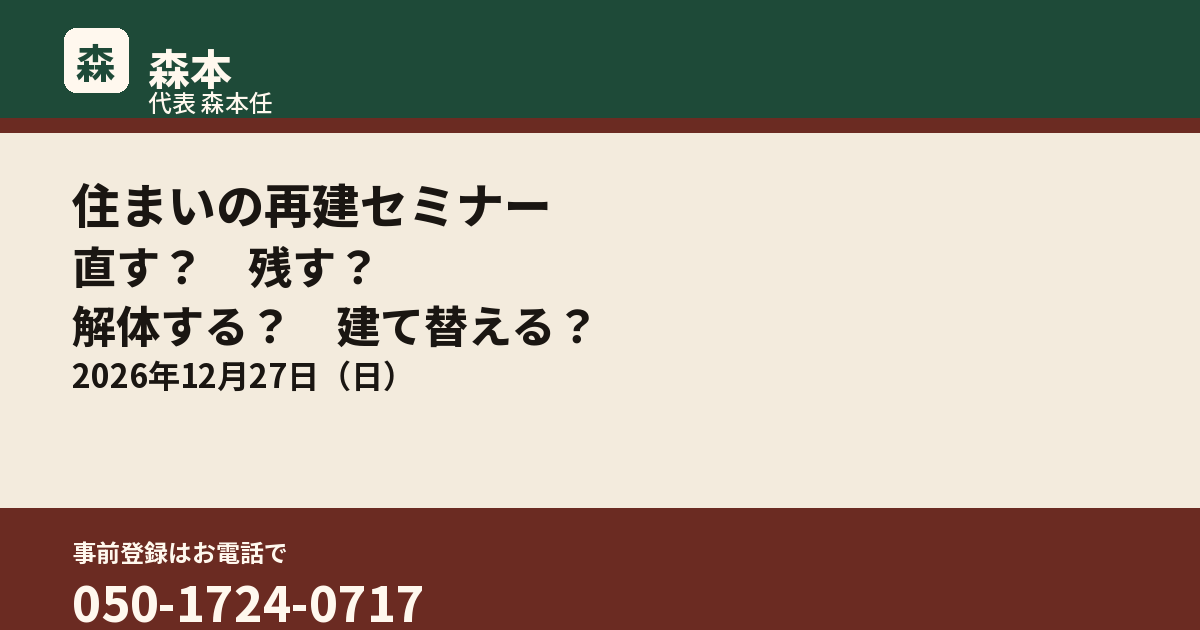
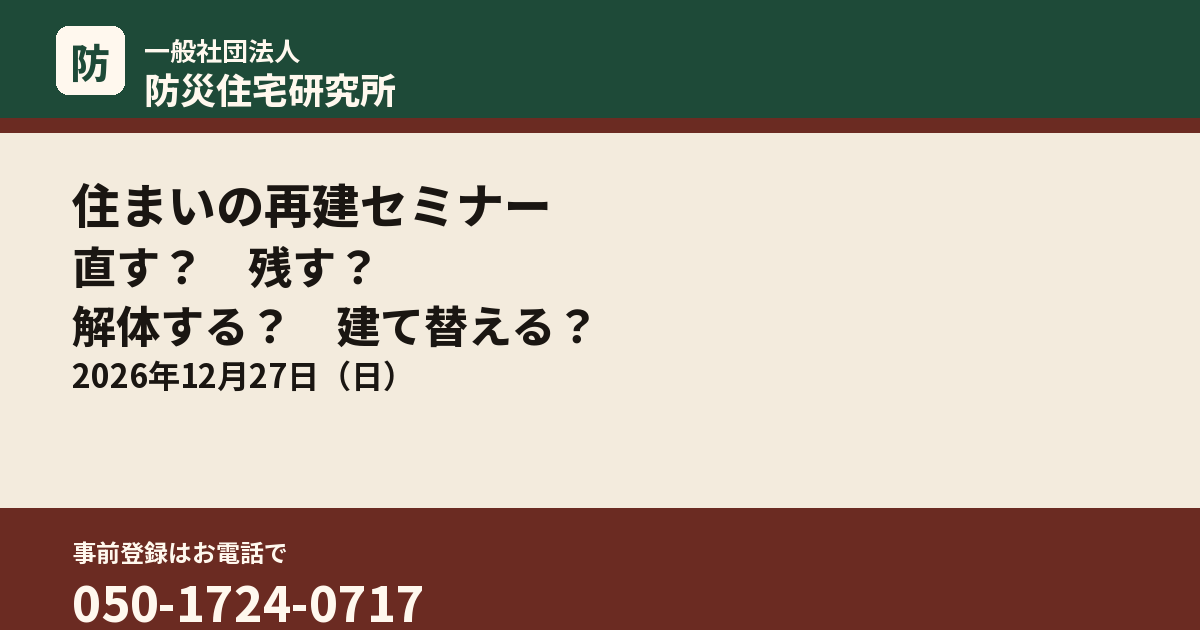
Brand the seminar page as 一般社団法人防災住宅研究所
The seminar header, footer, title, and OGP site name now name the institute as organizer. 森本任 stays on the speaker list. The Uto and storage pages are unchanged.

Changed region(s): [[0.0308, 0.0302, 0.3392, 0.181]]

diff --git a/lp/seminar/index.html b/lp/seminar/index.html
@@ -9,11 +9,11 @@
   <meta name="description" content="2026年12月27日（日）、八代・宇城・宇土エリアで住まいの再建を考えるセミナーです。事前登録はお電話（050-1724-0717）。詳細は調整中です。">
   <meta name="geo.region" content="JP-43">
   <meta name="geo.placename" content="熊本県">
-  <title>地震から考える住まいの再建セミナー｜森本</title>
+  <title>地震から考える住まいの再建セミナー｜一般社団法人防災住宅研究所</title>
   <link rel="canonical" href="https://morimoto811-alt.github.io/-/seminar/">
   <meta property="og:locale" content="ja_JP">
   <meta property="og:type" content="website">
-  <meta property="og:site_name" content="森本">
+  <meta property="og:site_name" content="一般社団法人防災住宅研究所">
   <meta property="og:title" content="地震から考える住まいの再建セミナー">
   <meta property="og:description" content="2026年12月27日（日）、八代・宇城・宇土エリアで住まいの再建を考えるセミナーです。事前登録はお電話（050-1724-0717）。詳細は調整中です。">
   <meta property="og:url" content="https://morimoto811-alt.github.io/-/seminar/">
@@ -27,17 +27,16 @@
   <meta name="twitter:image" content="https://morimoto811-alt.github.io/-/assets/og-seminar.png">
   <link rel="icon" href="../assets/favicon.svg" type="image/svg+xml">
   <link rel="apple-touch-icon" href="../assets/apple-touch.png">
-  <link rel="stylesheet" href="../assets/style.css?v=1">
+  <link rel="stylesheet" href="../assets/style.css?v=2">
 </head>
 <body>
   <a class="skip" href="#main">本文へ</a>
   <header class="site-header">
     <div class="wrap header-inner">
-      <a class="brand" href="../">
-        <span class="brand-mark" aria-hidden="true">森</span>
+      <a class="brand brand-institute" href="./">
+        <span class="brand-mark" aria-hidden="true">防</span>
         <span class="brand-text">
-          <span class="brand-name">森本</span>
-          <span class="brand-sub">代表 森本任</span>
+          <span class="brand-name">一般社団法人<br>防災住宅研究所</span>
         </span>
       </a>
       <nav aria-label="ページ">
@@ -62,7 +61,7 @@
           <span>建て替える<span class="q">？</span></span>
         </h1>
         <p class="lead">家族を守る住まいと、無理のない再建費用を考える</p>
-        <p>令和8年熊本地震のあと、住まいをどうするかを考えるセミナーです。森本（代表 森本任）が開きます。</p>
+        <p>令和8年熊本地震のあと、住まいをどうするかを考えるセミナーです。主催は、<span class="keep">一般社団法人防災住宅研究所</span>です。</p>
       </div>
 
       <section aria-labelledby="when-title">
@@ -160,8 +159,8 @@
 
   <footer class="site-footer">
     <div class="wrap">
-      <p class="footer-name">森本（代表 森本任）</p>
-      <p>熊本で、解体と住まいの建替えを行っています。建替えの商品名は「つぐ家」「うつせる家」です。</p>
+      <p class="footer-name">一般社団法人防災住宅研究所</p>
+      <p>このセミナーの主催です。事前登録はお電話で承っています。</p>
       <p>お電話 <a class="num" href="tel:05017240717">050-1724-0717</a></p>
       <ul class="footer-nav" role="list">
         <li><a href="../">ご案内</a></li>

diff --git a/lp/assets/style.css b/lp/assets/style.css
@@ -151,6 +151,11 @@ a:visited {
   line-height: 1.15;
 }
 
+.brand-institute .brand-name {
+  font-size: 1.12rem;
+  line-height: 1.35;
+}
+
 .brand-sub {
   display: block;
   font-size: 1rem;
